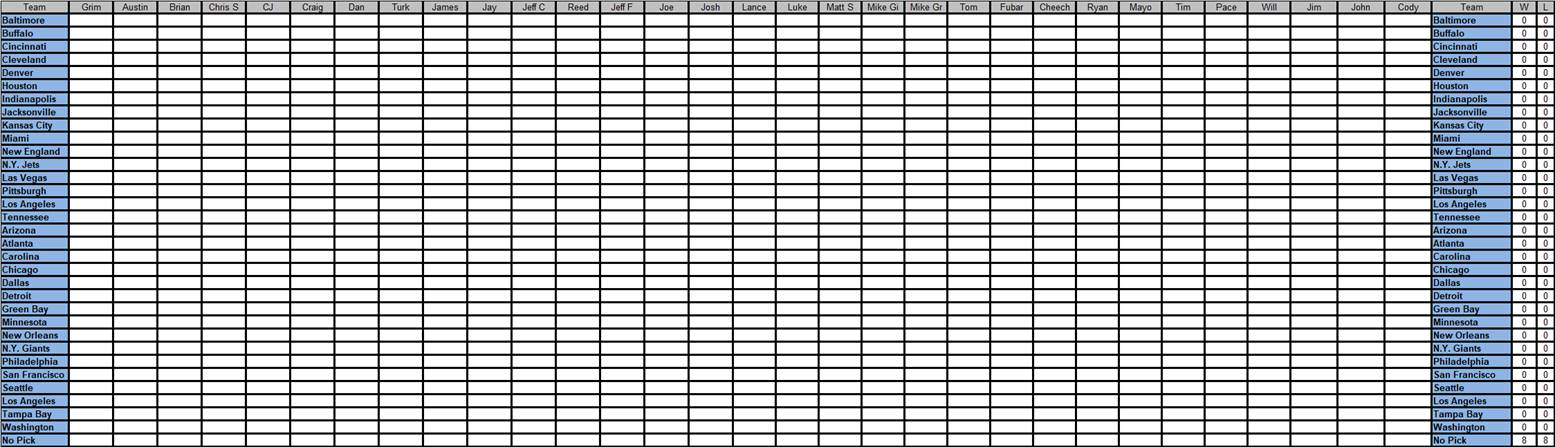
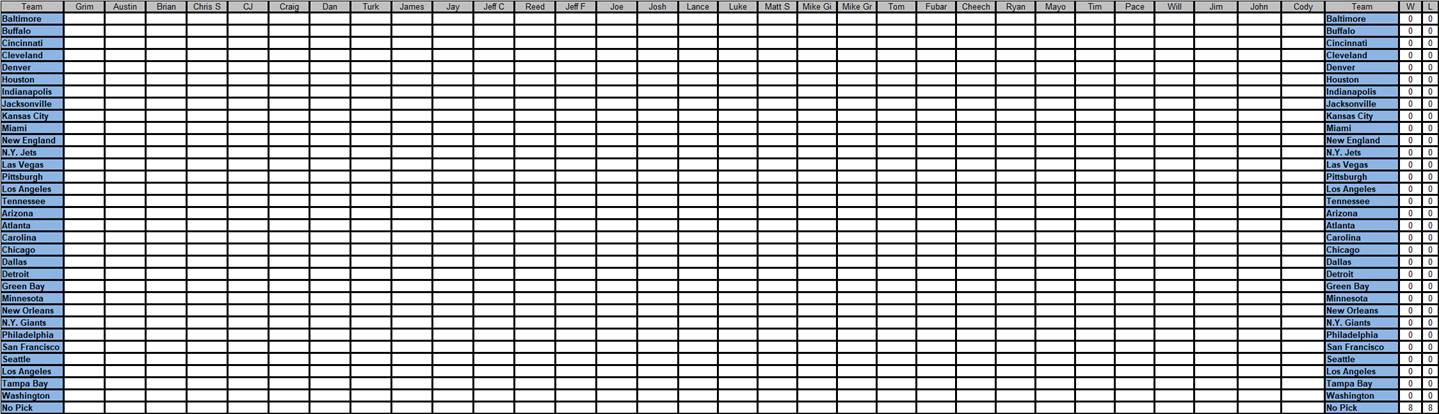
More 2025 Changes

diff --git a/Sports/NFLSuicide2025.html b/Sports/NFLSuicide2025.html
@@ -23,17 +23,17 @@ w\:* {behavior:url(#default#VML);}
  <o:DocumentProperties>
   <o:Author>Thomas Nardozzi</o:Author>
   <o:LastAuthor>Thomas Nardozzi</o:LastAuthor>
-  <o:Revision>2</o:Revision>
-  <o:TotalTime>154</o:TotalTime>
+  <o:Revision>3</o:Revision>
+  <o:TotalTime>185</o:TotalTime>
   <o:Created>2025-08-11T21:02:00Z</o:Created>
-  <o:LastSaved>2025-08-11T23:36:00Z</o:LastSaved>
+  <o:LastSaved>2025-08-12T00:18:00Z</o:LastSaved>
   <o:Pages>2</o:Pages>
-  <o:Words>994</o:Words>
-  <o:Characters>5667</o:Characters>
+  <o:Words>972</o:Words>
+  <o:Characters>5542</o:Characters>
   <o:Company>HP</o:Company>
-  <o:Lines>47</o:Lines>
+  <o:Lines>46</o:Lines>
   <o:Paragraphs>13</o:Paragraphs>
-  <o:CharactersWithSpaces>6648</o:CharactersWithSpaces>
+  <o:CharactersWithSpaces>6501</o:CharactersWithSpaces>
   <o:Version>14.00</o:Version>
  </o:DocumentProperties>
  <o:OfficeDocumentSettings>
@@ -62,8 +62,9 @@ w\:* {behavior:url(#default#VML);}
   </w:Compatibility>
   <w:DocumentVariables>
    <w:__Grammarly_42____i>H4sIAAAAAAAEAKtWckksSQxILCpxzi/NK1GyMqwFAAEhoTITAAAA</w:__Grammarly_42____i>
-   <w:__Grammarly_42___1>H4sIAAAAAAAEAKtWcslP9kxRslIyNDa2tDQxtDQ3MQWRlibGSjpKwanFxZn5eSAFhrUAUQ+2vCwAAAA=</w:__Grammarly_42___1>
+   <w:__Grammarly_42___1>H4sIAAAAAAAEAKtWcslP9kxRslIyNDa2tDQxtDQ3MQWRlibGSjpKwanFxZn5eSAFRrUAklyblywAAAA=</w:__Grammarly_42___1>
   </w:DocumentVariables>
+  <w:BrowserLevel>MicrosoftInternetExplorer4</w:BrowserLevel>
   <m:mathPr>
    <m:mathFont m:val="Cambria Math"/>
    <m:brkBin m:val="before"/>
@@ -371,7 +372,8 @@ w\:* {behavior:url(#default#VML);}
 	mso-fareast-font-family:"Times New Roman";
 	mso-fareast-theme-font:minor-fareast;}
 a:link, span.MsoHyperlink
-	{mso-style-priority:99;
+	{mso-style-noshow:yes;
+	mso-style-priority:99;
 	color:blue;
 	text-decoration:underline;
 	text-underline:single;}
@@ -1542,7 +1544,7 @@ style='font-family:"Arial","sans-serif"'><o:p></o:p></span></p>
   padding:0in 5.4pt 0in 5.4pt;height:14.25pt'>
   <p class=MsoNormal align=center style='text-align:center'><span
   style='font-size:10.0pt;font-family:"Arial","sans-serif";mso-fareast-font-family:
-  "Times New Roman"'>&nbsp;<o:p></o:p></span></p>
+  "Times New Roman"'>&nbsp;x<o:p></o:p></span></p>
   </td>
  </tr>
  <tr style='mso-yfti-irow:23;height:14.25pt'>
@@ -1778,7 +1780,7 @@ pick up wins this week based on remaining games.</span><span style='font-family:
 font-family:"Arial","sans-serif"'>Notes:</span><span style='font-family:"Arial","sans-serif"'><o:p></o:p></span></p>
 
 <p style='margin-top:0in;margin-right:0in;margin-bottom:0in;margin-left:.5in;
-margin-bottom:.0001pt;text-indent:-.25in;mso-list:l0 level1 lfo1;tab-stops:
+margin-bottom:.0001pt;text-indent:-.25in;mso-list:l0 level1 lfo2;tab-stops:
 list .5in'><![if !supportLists]><span style='font-size:10.0pt;mso-bidi-font-size:
 12.0pt;font-family:Symbol;mso-fareast-font-family:Symbol;mso-bidi-font-family:
 Symbol'><span style='mso-list:Ignore'>&middot;<span style='font:7.0pt "Times New Roman"'>&nbsp;&nbsp;&nbsp;&nbsp;&nbsp;&nbsp;&nbsp;&nbsp;
@@ -1795,9 +1797,10 @@ style='font-family:"Arial","sans-serif";mso-fareast-font-family:"Times New Roman
 <p style='margin:0in;margin-bottom:.0001pt'><span style='font-size:10.0pt;
 font-family:"Arial","sans-serif"'>Picks<o:p></o:p></span></p>
 
-<p style='margin:0in;margin-bottom:.0001pt'><span style='font-family:"Arial","sans-serif"'>&nbsp;<o:p></o:p></span></p>
+<p style='margin:0in;margin-bottom:.0001pt'><span style='font-size:10.0pt;
+font-family:"Arial","sans-serif"'><o:p>&nbsp;</o:p></span></p>
 
-<p style='margin:0in;margin-bottom:.0001pt'><span style='font-family:"Arial","sans-serif"'><colgroup><col width="99" style="width: 74pt"><col width="64" span="15" style="width:48pt"><col width="62" span="13" style="width: 47pt"><col width="68" span="3" style="width: 51pt"><col width="116" style="width: 87pt"><col width="36" style="width: 27pt"><col width="26" style="width: 20pt"></colgroup><!--[if gte vml 1]><v:shapetype
+<p style='margin:0in;margin-bottom:.0001pt'><span style='mso-no-proof:yes'><!--[if gte vml 1]><v:shapetype
  id="_x0000_t75" coordsize="21600,21600" o:spt="75" o:preferrelative="t"
  path="m@4@5l@4@11@9@11@9@5xe" filled="f" stroked="f">
  <v:stroke joinstyle="miter"/>
@@ -1817,36 +1820,21 @@ font-family:"Arial","sans-serif"'>Picks<o:p></o:p></span></p>
  </v:formulas>
  <v:path o:extrusionok="f" gradientshapeok="t" o:connecttype="rect"/>
  <o:lock v:ext="edit" aspectratio="t"/>
-</v:shapetype><v:shape id="_x0000_i1028" type="#_x0000_t75" style='width:1166.25pt;
- height:335.25pt' o:ole="">
+</v:shapetype><v:shape id="Picture_x0020_1" o:spid="_x0000_i1028" type="#_x0000_t75"
+ style='width:1079.25pt;height:310.5pt;visibility:visible;mso-wrap-style:square'>
  <v:imagedata src="NFLSuicide2025_files/image001.png" o:title=""/>
-</v:shape><![endif]--><![if !vml]><img width=1555 height=447
-src="NFLSuicide2025_files/image002.jpg" v:shapes="_x0000_i1028"><![endif]><!--[if gte mso 9]><xml>
- <o:OLEObject Type="Link" ProgID="Excel.SheetMacroEnabled.12"
-  ShapeID="_x0000_i1028" DrawAspect="Content"
-  Moniker="C:\Data\Finance\Gambling\NFLSuicide2025.xlsm!Pool!R35C7:R68C41"
-  UpdateMode="Always">
-  <o:LinkType>Bitmap</o:LinkType>
-  <o:LockedField>false</o:LockedField>
- </o:OLEObject>
-</xml><![endif]--></span><!--[if supportFields]><span style='font-family:"Arial","sans-serif"'><span
-style='mso-element:field-begin'></span><span
-style='mso-spacerun:yes'>&nbsp;</span>LINK Excel.SheetMacroEnabled.12
-&quot;C:\\Data\\Finance\\Gambling\\NFLSuicide2025.xlsm&quot;
-&quot;Pool!R35C7:R68C41&quot; \a \f 4 \h <span
-style='mso-spacerun:yes'>&nbsp;</span>\* MERGEFORMAT <span style='mso-element:
-field-separator'></span></span><![endif]--><span style='font-size:10.0pt;
-font-family:"Arial","sans-serif";mso-fareast-font-family:"Times New Roman"'><o:p></o:p></span></p>
+</v:shape><![endif]--><![if !vml]><img width=1439 height=414
+src="NFLSuicide2025_files/image002.jpg" v:shapes="Picture_x0020_1"><![endif]></span><span
+style='font-size:10.0pt;font-family:"Arial","sans-serif"'><o:p></o:p></span></p>
 
-<p style='margin:0in;margin-bottom:.0001pt'><!--[if supportFields]><span
-style='font-family:"Arial","sans-serif"'><span style='mso-element:field-end'></span></span><![endif]--><span
-style='font-family:"Arial","sans-serif"'>&nbsp;<o:p></o:p></span></p>
+<p style='margin:0in;margin-bottom:.0001pt'><span style='font-size:10.0pt;
+font-family:"Arial","sans-serif"'><o:p>&nbsp;</o:p></span></p>
 
 <p style='margin:0in;margin-bottom:.0001pt'><span style='font-size:10.0pt;
 font-family:"Arial","sans-serif"'>Notes: </span><span style='font-family:"Arial","sans-serif"'><o:p></o:p></span></p>
 
 <p style='margin-top:0in;margin-right:0in;margin-bottom:0in;margin-left:.5in;
-margin-bottom:.0001pt;text-indent:-.25in;mso-list:l3 level1 lfo2;tab-stops:
+margin-bottom:.0001pt;text-indent:-.25in;mso-list:l3 level1 lfo4;tab-stops:
 list .5in'><![if !supportLists]><span style='font-size:10.0pt;mso-bidi-font-size:
 12.0pt;font-family:Symbol;mso-fareast-font-family:Symbol;mso-bidi-font-family:
 Symbol'><span style='mso-list:Ignore'>&middot;<span style='font:7.0pt "Times New Roman"'>&nbsp;&nbsp;&nbsp;&nbsp;&nbsp;&nbsp;&nbsp;&nbsp;
@@ -1876,7 +1864,7 @@ style='font-size:10.0pt;font-family:"Arial","sans-serif"'>&nbsp; </span><span
 style='font-family:"Arial","sans-serif"'><o:p></o:p></span></p>
 
 <p style='margin-top:0in;margin-right:0in;margin-bottom:0in;margin-left:.5in;
-margin-bottom:.0001pt;text-indent:-.25in;mso-list:l5 level1 lfo3;tab-stops:
+margin-bottom:.0001pt;text-indent:-.25in;mso-list:l5 level1 lfo6;tab-stops:
 list .5in'><![if !supportLists]><span style='font-size:10.0pt;mso-bidi-font-size:
 12.0pt;font-family:Wingdings;mso-fareast-font-family:Wingdings;mso-bidi-font-family:
 Wingdings'><span style='mso-list:Ignore'>&sect;<span style='font:7.0pt "Times New Roman"'>&nbsp;
@@ -1884,7 +1872,7 @@ Wingdings'><span style='mso-list:Ignore'>&sect;<span style='font:7.0pt "Times Ne
 Strikes Suicide Style Rules</span><span style='font-family:"Arial","sans-serif"'><o:p></o:p></span></p>
 
 <p style='margin-top:0in;margin-right:0in;margin-bottom:0in;margin-left:.5in;
-margin-bottom:.0001pt;text-indent:-.25in;mso-list:l5 level1 lfo3;tab-stops:
+margin-bottom:.0001pt;text-indent:-.25in;mso-list:l5 level1 lfo6;tab-stops:
 list .5in'><![if !supportLists]><span style='font-size:10.0pt;mso-bidi-font-size:
 12.0pt;font-family:Wingdings;mso-fareast-font-family:Wingdings;mso-bidi-font-family:
 Wingdings'><span style='mso-list:Ignore'>&sect;<span style='font:7.0pt "Times New Roman"'>&nbsp;
@@ -1893,28 +1881,27 @@ entries allowed by the same person (multiple entry fee required) </span><span
 style='font-family:"Arial","sans-serif"'><o:p></o:p></span></p>
 
 <p style='margin-top:0in;margin-right:0in;margin-bottom:0in;margin-left:.5in;
-margin-bottom:.0001pt;text-indent:-.25in;mso-list:l5 level1 lfo3;tab-stops:
+margin-bottom:.0001pt;text-indent:-.25in;mso-list:l5 level1 lfo6;tab-stops:
 list .5in'><![if !supportLists]><span style='font-size:10.0pt;mso-bidi-font-size:
 12.0pt;font-family:Wingdings;mso-fareast-font-family:Wingdings;mso-bidi-font-family:
 Wingdings'><span style='mso-list:Ignore'>&sect;<span style='font:7.0pt "Times New Roman"'>&nbsp;
 </span></span></span><![endif]><span style='font-size:10.0pt;font-family:"Arial","sans-serif"'>Each
 week, you will select one NFL team that you think will win (ties count as a
-loss).&nbsp; <span style='color:red'>You can also select a backup pick that
-will automatically become your pick if your primary pick's game is cancelled.</span></span><span
+loss).&nbsp; <s><span style='color:red'>You can also select a backup pick that
+will automatically become your pick if your primary pick's game is cancelled.</span></s></span><span
 style='font-family:"Arial","sans-serif"'><o:p></o:p></span></p>
 
 <p style='margin-top:0in;margin-right:0in;margin-bottom:0in;margin-left:.5in;
-margin-bottom:.0001pt;text-indent:-.25in;mso-list:l5 level1 lfo3;tab-stops:
+margin-bottom:.0001pt;text-indent:-.25in;mso-list:l5 level1 lfo6;tab-stops:
 list .5in'><![if !supportLists]><span style='font-size:10.0pt;mso-bidi-font-size:
 12.0pt;font-family:Wingdings;mso-fareast-font-family:Wingdings;mso-bidi-font-family:
 Wingdings'><span style='mso-list:Ignore'>&sect;<span style='font:7.0pt "Times New Roman"'>&nbsp;
 </span></span></span><![endif]><span style='font-size:10.0pt;font-family:"Arial","sans-serif"'>Make
-your pick each week on the pool pick website.&nbsp; (See <span
-style='color:red'>updated</span> Deadline below). </span><span
+your pick each week on the pool pick website.&nbsp; (See Deadline below). </span><span
 style='font-family:"Arial","sans-serif"'><o:p></o:p></span></p>
 
 <p style='margin-top:0in;margin-right:0in;margin-bottom:0in;margin-left:.5in;
-margin-bottom:.0001pt;text-indent:-.25in;mso-list:l5 level1 lfo3;tab-stops:
+margin-bottom:.0001pt;text-indent:-.25in;mso-list:l5 level1 lfo6;tab-stops:
 list .5in'><![if !supportLists]><span style='font-size:10.0pt;mso-bidi-font-size:
 12.0pt;font-family:Wingdings;mso-fareast-font-family:Wingdings;mso-bidi-font-family:
 Wingdings'><span style='mso-list:Ignore'>&sect;<span style='font:7.0pt "Times New Roman"'>&nbsp;
@@ -1923,7 +1910,7 @@ you fail to submit a pick, or your picked team doesn't win, or your picked team
 does not play, you will get a strike. </span><span style='font-family:"Arial","sans-serif"'><o:p></o:p></span></p>
 
 <p style='margin-top:0in;margin-right:0in;margin-bottom:0in;margin-left:.5in;
-margin-bottom:.0001pt;text-indent:-.25in;mso-list:l5 level1 lfo3;tab-stops:
+margin-bottom:.0001pt;text-indent:-.25in;mso-list:l5 level1 lfo6;tab-stops:
 list .5in'><![if !supportLists]><span style='font-size:10.0pt;mso-bidi-font-size:
 12.0pt;font-family:Wingdings;mso-fareast-font-family:Wingdings;mso-bidi-font-family:
 Wingdings'><span style='mso-list:Ignore'>&sect;<span style='font:7.0pt "Times New Roman"'>&nbsp;
@@ -1933,7 +1920,7 @@ do, it will count as a &quot;no pick&quot; which results in 8 wins for
 tie-breaker purposes.</span><span style='font-family:"Arial","sans-serif"'><o:p></o:p></span></p>
 
 <p style='margin-top:0in;margin-right:0in;margin-bottom:0in;margin-left:.5in;
-margin-bottom:.0001pt;text-indent:-.25in;mso-list:l5 level1 lfo3;tab-stops:
+margin-bottom:.0001pt;text-indent:-.25in;mso-list:l5 level1 lfo6;tab-stops:
 list .5in'><![if !supportLists]><span style='font-size:10.0pt;mso-bidi-font-size:
 12.0pt;font-family:Wingdings;mso-fareast-font-family:Wingdings;mso-bidi-font-family:
 Wingdings'><span style='mso-list:Ignore'>&sect;<span style='font:7.0pt "Times New Roman"'>&nbsp;
@@ -1942,21 +1929,21 @@ you pick a team that is not playing, it will count as a &quot;no pick&quot;
 rather than a pick of that team.&nbsp; </span><span style='font-family:"Arial","sans-serif"'><o:p></o:p></span></p>
 
 <p style='margin-top:0in;margin-right:0in;margin-bottom:0in;margin-left:.5in;
-margin-bottom:.0001pt;text-indent:-.25in;mso-list:l5 level1 lfo3;tab-stops:
+margin-bottom:.0001pt;text-indent:-.25in;mso-list:l5 level1 lfo6;tab-stops:
 list .5in'><![if !supportLists]><span style='font-size:10.0pt;mso-bidi-font-size:
 12.0pt;font-family:Wingdings;mso-fareast-font-family:Wingdings;mso-bidi-font-family:
 Wingdings'><span style='mso-list:Ignore'>&sect;<span style='font:7.0pt "Times New Roman"'>&nbsp;
-</span></span></span><![endif]><span style='font-size:10.0pt;font-family:"Arial","sans-serif";
-color:red'>There is always a chance of something <span class=GramE>unforeseen,
-that</span> is not well handled by the rules.&nbsp; In that event, the
-commissioner will have full discretion to decide the best outcome.&nbsp; If the
-commissioner's team is involved in a way that presents a clear conflict of
-interest, he may recuse himself from the decision.&nbsp; In this case, the
-treasurer will decide.&nbsp; If the treasurer also recuses herself the
-commissioner will poll all members to reach a majority, or at least plurality,
-decision on how to proceed.&nbsp; By agreeing to play, you are agreeing to
-abide by this system and pledging to avoid controversy, arguing, protesting,
-etc.&nbsp; Let's keep it fun.</span><span style='font-family:"Arial","sans-serif"'><o:p></o:p></span></p>
+</span></span></span><![endif]><span style='font-size:10.0pt;font-family:"Arial","sans-serif"'>There
+is always a chance of something <span class=GramE>unforeseen, that</span> is
+not well handled by the rules.&nbsp; In that event, the commissioner will have
+full discretion to decide the best outcome.&nbsp; If the commissioner's team is
+involved in a way that presents a clear conflict of interest, he may recuse
+himself from the decision.&nbsp; In this case, the treasurer will decide.&nbsp;
+If the treasurer also recuses herself the commissioner will poll all members to
+reach a majority, or at least plurality, decision on how to proceed.&nbsp; By agreeing
+to play, you are agreeing to abide by this system and pledging to avoid
+controversy, arguing, protesting, etc.&nbsp; Let's keep it fun.</span><span
+style='font-family:"Arial","sans-serif"'><o:p></o:p></span></p>
 
 <p style='margin:0in;margin-bottom:.0001pt'><span style='font-family:"Arial","sans-serif"'>&nbsp;<o:p></o:p></span></p>
 
@@ -1965,7 +1952,7 @@ style='font-size:10.0pt;font-family:"Arial","sans-serif"'>&nbsp; </span><span
 style='font-family:"Arial","sans-serif"'><o:p></o:p></span></p>
 
 <p style='margin-top:0in;margin-right:0in;margin-bottom:0in;margin-left:.5in;
-margin-bottom:.0001pt;text-indent:-.25in;mso-list:l1 level1 lfo4;tab-stops:
+margin-bottom:.0001pt;text-indent:-.25in;mso-list:l1 level1 lfo8;tab-stops:
 list .5in'><![if !supportLists]><span style='font-size:10.0pt;mso-bidi-font-size:
 12.0pt;font-family:Wingdings;mso-fareast-font-family:Wingdings;mso-bidi-font-family:
 Wingdings'><span style='mso-list:Ignore'>&sect;<span style='font:7.0pt "Times New Roman"'>&nbsp;
@@ -1980,35 +1967,37 @@ style='font-family:"Arial","sans-serif"'><o:p></o:p></span></p>
 </span></b><span style='font-family:"Arial","sans-serif"'><o:p></o:p></span></p>
 
 <p style='margin-top:0in;margin-right:0in;margin-bottom:0in;margin-left:.5in;
-margin-bottom:.0001pt;text-indent:-.25in;mso-list:l2 level1 lfo5;tab-stops:
+margin-bottom:.0001pt;text-indent:-.25in;mso-list:l2 level1 lfo10;tab-stops:
 list .5in'><![if !supportLists]><span style='font-size:10.0pt;mso-bidi-font-size:
 12.0pt;font-family:Wingdings;mso-fareast-font-family:Wingdings;mso-bidi-font-family:
 Wingdings'><span style='mso-list:Ignore'>&sect;<span style='font:7.0pt "Times New Roman"'>&nbsp;
 </span></span></span><![endif]><s><span style='font-size:10.0pt;font-family:
 "Arial","sans-serif"'>The pool pick deadline for each week is Sunday at noon
 eastern time.&nbsp; Your pick must be made by that time.&nbsp; However, if you
-want to pick a team that is playing earlier than Sunday, you must make your
-pick prior to kickoff of that game.&nbsp; The website will lock out all
-pre-Sunday games at kickoff and will lockout all remaining games (including
-Monday night games) on Sunday at noon eastern.&nbsp; There are no exceptions
-and no overrides.</span></s><span style='font-family:"Arial","sans-serif"'><o:p></o:p></span></p>
+want to pick a team that is playing earlier than Sunday, you must make your pick
+prior to kickoff of that game.&nbsp; The website will lock out all pre-Sunday
+games at kickoff and will lockout all remaining games (including Monday night
+games) on Sunday at noon eastern.&nbsp; There are no exceptions and no
+overrides.</span></s><span style='font-family:"Arial","sans-serif"'><o:p></o:p></span></p>
 
 <p style='margin-top:0in;margin-right:0in;margin-bottom:0in;margin-left:.5in;
-margin-bottom:.0001pt;text-indent:-.25in;mso-list:l2 level1 lfo5;tab-stops:
+margin-bottom:.0001pt;text-indent:-.25in;mso-list:l2 level1 lfo10;tab-stops:
 list .5in'><![if !supportLists]><span style='font-size:10.0pt;mso-bidi-font-size:
 12.0pt;font-family:Wingdings;mso-fareast-font-family:Wingdings;mso-bidi-font-family:
 Wingdings'><span style='mso-list:Ignore'>&sect;<span style='font:7.0pt "Times New Roman"'>&nbsp;
-</span></span></span><![endif]><span style='font-size:10.0pt;font-family:"Arial","sans-serif";
-color:red'>New for 2020 and remains in place:&nbsp; There is no pool pick
-deadline for each week.&nbsp; Instead, you may pick any game for that week that
-has not started at any time, unless you have already made a pick and that game
-has started or all games for the week have started.&nbsp; This change was due
-to the increased chance of game cancellations / postponements during <span
-class=SpellE>covid</span>, but still makes sense to handle weather, health,
-nuclear war, etc.</span><span style='font-family:"Arial","sans-serif"'><o:p></o:p></span></p>
+</span></span></span><![endif]><span style='font-size:10.0pt;font-family:"Arial","sans-serif"'>There
+is no pool pick deadline for each week.&nbsp; Instead, you may pick any game
+for that week that has not started at any time, unless you have already made a
+pick and that game has started or all games for the week have started.&nbsp; <span
+style='color:red'>In addition, the pool pick site must allow your pick (so don&#8217;t
+wait until the last second or expect you&#8217;ll be able to change your pick
+at the last second).<span style='mso-spacerun:yes'>&nbsp; </span>We&#8217;re
+using a new site this year for picks and their functionality is untested, so
+until we know what their site allows us to do, we&#8217;re at their mercy.</span></span><span
+style='font-family:"Arial","sans-serif"'><o:p></o:p></span></p>
 
 <p style='margin-top:0in;margin-right:0in;margin-bottom:0in;margin-left:.5in;
-margin-bottom:.0001pt;text-indent:-.25in;mso-list:l2 level1 lfo5;tab-stops:
+margin-bottom:.0001pt;text-indent:-.25in;mso-list:l2 level1 lfo10;tab-stops:
 list .5in'><![if !supportLists]><span style='font-size:10.0pt;mso-bidi-font-size:
 12.0pt;font-family:Wingdings;mso-fareast-font-family:Wingdings;mso-bidi-font-family:
 Wingdings'><span style='mso-list:Ignore'>&sect;<span style='font:7.0pt "Times New Roman"'>&nbsp;
@@ -2023,27 +2012,27 @@ style='font-size:10.0pt;font-family:"Arial","sans-serif"'>:</span><span
 style='font-family:"Arial","sans-serif"'><o:p></o:p></span></p>
 
 <p style='margin-top:0in;margin-right:0in;margin-bottom:0in;margin-left:.5in;
-margin-bottom:.0001pt;text-indent:-.25in;mso-list:l4 level1 lfo6;tab-stops:
+margin-bottom:.0001pt;text-indent:-.25in;mso-list:l4 level1 lfo12;tab-stops:
 list .5in'><![if !supportLists]><span style='font-size:10.0pt;mso-bidi-font-size:
 12.0pt;font-family:Wingdings;mso-fareast-font-family:Wingdings;mso-bidi-font-family:
 Wingdings'><span style='mso-list:Ignore'>&sect;<span style='font:7.0pt "Times New Roman"'>&nbsp;
 </span></span></span><![endif]><span style='font-size:10.0pt;font-family:"Arial","sans-serif"'>100
 point entry fee.&nbsp; 25 points additional late entry fee if not confirmed by
-08/31/2025.&nbsp; Total 2025 entry fees <span class=GramE>= ???</span> points.</span><span
-style='font-family:"Arial","sans-serif"'><o:p></o:p></span></p>
+08/31/2025.&nbsp; Total 2025 entry fees <span class=GramE>= ???</span> <span
+class=GramE>points</span>.</span><span style='font-family:"Arial","sans-serif"'><o:p></o:p></span></p>
 
 <p style='margin-top:0in;margin-right:0in;margin-bottom:0in;margin-left:.5in;
-margin-bottom:.0001pt;text-indent:-.25in;mso-list:l4 level1 lfo6;tab-stops:
+margin-bottom:.0001pt;text-indent:-.25in;mso-list:l4 level1 lfo12;tab-stops:
 list .5in'><![if !supportLists]><span style='font-size:10.0pt;mso-bidi-font-size:
 12.0pt;font-family:Wingdings;mso-fareast-font-family:Wingdings;mso-bidi-font-family:
 Wingdings'><span style='mso-list:Ignore'>&sect;<span style='font:7.0pt "Times New Roman"'>&nbsp;
 </span></span></span><![endif]><span style='font-size:10.0pt;font-family:"Arial","sans-serif"'>Pick
 Website Expenses: 25 points plus 1.25 points for each player above 20 in the
-pool for the year<span class=GramE>&nbsp; (</span>to be paid by the winner) = ???
-points</span><span style='font-family:"Arial","sans-serif"'><o:p></o:p></span></p>
+pool for the year<span class=GramE>&nbsp; (</span>to be paid by the winner) =
+??? points</span><span style='font-family:"Arial","sans-serif"'><o:p></o:p></span></p>
 
 <p style='margin-top:0in;margin-right:0in;margin-bottom:0in;margin-left:.5in;
-margin-bottom:.0001pt;text-indent:-.25in;mso-list:l4 level1 lfo6;tab-stops:
+margin-bottom:.0001pt;text-indent:-.25in;mso-list:l4 level1 lfo12;tab-stops:
 list .5in'><![if !supportLists]><span style='font-size:10.0pt;mso-bidi-font-size:
 12.0pt;font-family:Wingdings;mso-fareast-font-family:Wingdings;mso-bidi-font-family:
 Wingdings'><span style='mso-list:Ignore'>&sect;<span style='font:7.0pt "Times New Roman"'>&nbsp;
@@ -2052,7 +2041,7 @@ Place: 70% of entry point pool minus Pick Website Expenses (TBD points)</span><s
 style='font-family:"Arial","sans-serif"'><o:p></o:p></span></p>
 
 <p style='margin-top:0in;margin-right:0in;margin-bottom:0in;margin-left:.5in;
-margin-bottom:.0001pt;text-indent:-.25in;mso-list:l4 level1 lfo6;tab-stops:
+margin-bottom:.0001pt;text-indent:-.25in;mso-list:l4 level1 lfo12;tab-stops:
 list .5in'><![if !supportLists]><span style='font-size:10.0pt;mso-bidi-font-size:
 12.0pt;font-family:Wingdings;mso-fareast-font-family:Wingdings;mso-bidi-font-family:
 Wingdings'><span style='mso-list:Ignore'>&sect;<span style='font:7.0pt "Times New Roman"'>&nbsp;
@@ -2060,7 +2049,7 @@ Wingdings'><span style='mso-list:Ignore'>&sect;<span style='font:7.0pt "Times Ne
 Place: 20% of entry fee pool (TBD points)</span><span style='font-family:"Arial","sans-serif"'><o:p></o:p></span></p>
 
 <p style='margin-top:0in;margin-right:0in;margin-bottom:0in;margin-left:.5in;
-margin-bottom:.0001pt;text-indent:-.25in;mso-list:l4 level1 lfo6;tab-stops:
+margin-bottom:.0001pt;text-indent:-.25in;mso-list:l4 level1 lfo12;tab-stops:
 list .5in'><![if !supportLists]><span style='font-size:10.0pt;mso-bidi-font-size:
 12.0pt;font-family:Wingdings;mso-fareast-font-family:Wingdings;mso-bidi-font-family:
 Wingdings'><span style='mso-list:Ignore'>&sect;<span style='font:7.0pt "Times New Roman"'>&nbsp;
@@ -2074,10 +2063,9 @@ style='font-size:10.0pt;font-family:"Arial","sans-serif"'>:</span></b><span
 style='font-family:"Arial","sans-serif"'><o:p></o:p></span></p>
 
 <p class=MsoNormal><span style='font-size:10.0pt;font-family:"Arial","sans-serif"'>In
-the case that more than one player remains at the end of the regular season <span
-style='color:red'>(including an NFL shortened season)</span>, a tie-breaker
-will be used in the following order: &nbsp;</span><span style='font-family:
-"Arial","sans-serif"'><o:p></o:p></span></p>
+the case that more than one player remains at the end of the regular season (including
+an NFL shortened season), a tie-breaker will be used in the following order:
+&nbsp;</span><span style='font-family:"Arial","sans-serif"'><o:p></o:p></span></p>
 
 <p class=MsoNormal><span style='font-size:10.0pt;font-family:"Arial","sans-serif"'>1)
 Player with the fewest strikes at the end of the season wins. </span><span
